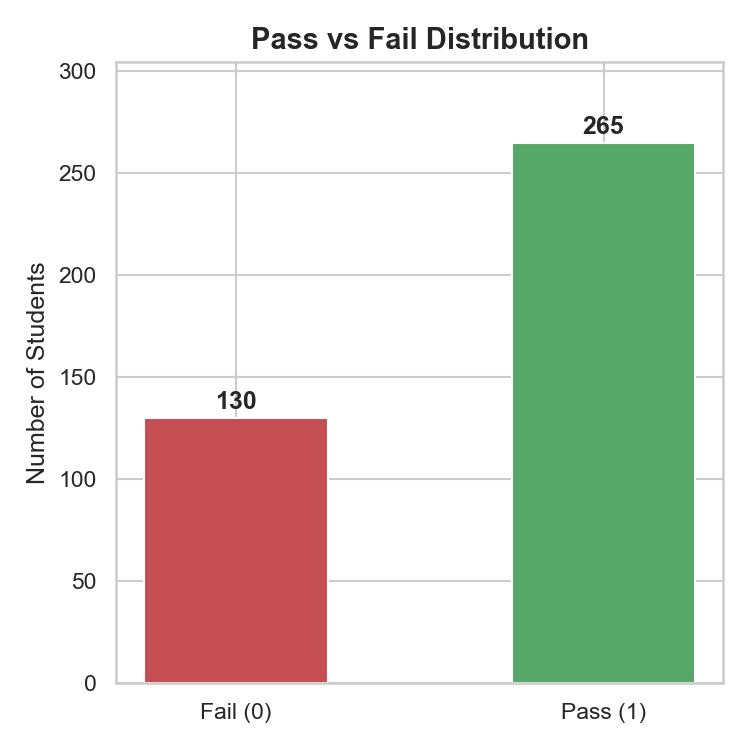
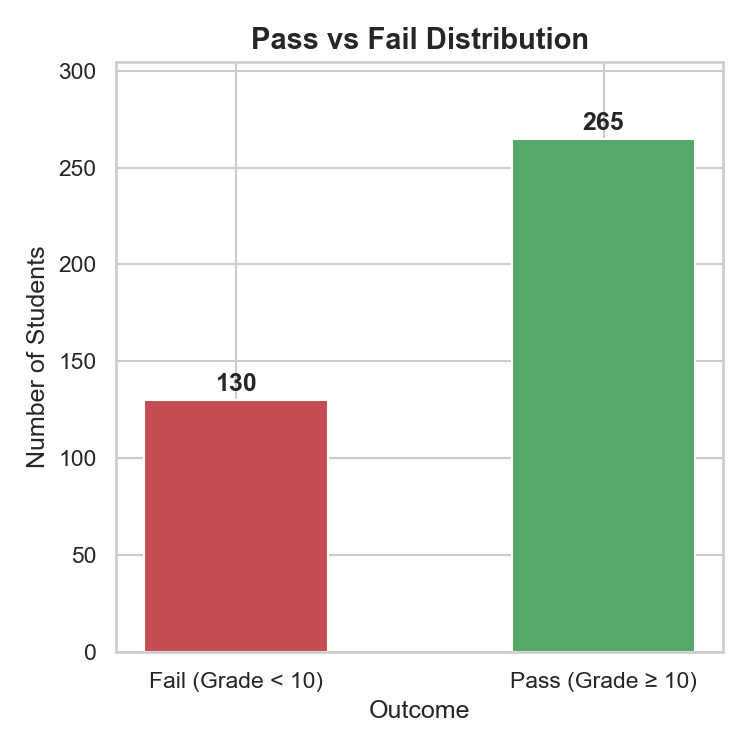
refactored plots.py for better readability of the plots

diff --git a/plots.py b/plots.py
@@ -3,7 +3,7 @@
 # Phase 2: Exploratory Data Analysis (EDA)
 # =============================================================================
 # Run this AFTER phase1_data_setup.py.
-# Make sure student_preprocessed.csv is in the same folder.
+# Make sure student-mat.csv and student_preprocessed.csv are in the same folder.
 # This script produces 6 plots saved as PNG files.
 # =============================================================================
 
@@ -13,23 +13,40 @@ import matplotlib.pyplot as plt
 import seaborn as sns
 
 # ── SETUP ─────────────────────────────────────────────────────────────────────
-# Load the preprocessed dataset from Phase 1
 df = pd.read_csv("student_preprocessed.csv")
 
-# Also reload the raw dataset for plots that use original column names
 df_raw = pd.read_csv("student-mat.csv", sep=";")
 df_raw["pass_fail"] = (df_raw["G3"] >= 10).astype(int)
 
-# Set a consistent visual style for all plots
 sns.set_theme(style="whitegrid", palette="muted")
 plt.rcParams["figure.dpi"] = 150
+
+# ── FULL LABEL MAP ─────────────────────────────────────────────────────────────
+# Single source of truth for all axis labels, titles, and legends.
+LABELS = {
+    "age":        "Age",
+    "Medu":       "Mother's Education",
+    "Fedu":       "Father's Education",
+    "traveltime": "Travel Time to School",
+    "studytime":  "Weekly Study Time",
+    "failures":   "Past Class Failures",
+    "famrel":     "Family Relationship Quality",
+    "freetime":   "Free Time After School",
+    "goout":      "Going Out with Friends",
+    "Dalc":       "Workday Alcohol Consumption",
+    "Walc":       "Weekend Alcohol Consumption",
+    "health":     "Current Health Status",
+    "absences":   "Number of Absences",
+    "G1":         "First Period Grade",
+    "G2":         "Second Period Grade",
+    "G3":         "Final Grade (G3)",
+}
 
 print("EDA started — generating 6 plots...")
 print()
 
 # ── PLOT 1: Distribution of Final Grades (G3) ─────────────────────────────────
-# This is the most important plot in your EDA section.
-# It shows whether grades are normally distributed, skewed, or bimodal.
+# Shows whether grades are normally distributed, skewed, or bimodal.
 # Note the spike at 0 — students who dropped out or were absent for the exam.
 
 fig, ax = plt.subplots(figsize=(8, 5))
@@ -42,7 +59,7 @@ ax.axvline(x=df_raw["G3"].mean(), color="#55A868", linestyle="--", linewidth=1.5
            label=f"Mean grade ({df_raw['G3'].mean():.1f})")
 
 ax.set_title("Distribution of Final Grades (G3)", fontsize=14, fontweight="bold")
-ax.set_xlabel("Final Grade (G3)", fontsize=12)
+ax.set_xlabel(LABELS["G3"], fontsize=12)
 ax.set_ylabel("Number of Students", fontsize=12)
 ax.legend()
 plt.tight_layout()
@@ -52,21 +69,20 @@ print("Plot 1 saved: plot1_grade_distribution.png")
 
 # ── PLOT 2: Pass vs Fail Count ────────────────────────────────────────────────
 # Simple bar chart showing class balance.
-# If one class is much larger than the other, it affects model evaluation.
-# Mention this in your thesis — class imbalance matters for precision/recall.
+# Class imbalance affects model evaluation — discuss in thesis.
 
 fig, ax = plt.subplots(figsize=(5, 5))
 
 counts = df_raw["pass_fail"].value_counts().sort_index()
-bars = ax.bar(["Fail (0)", "Pass (1)"], counts.values,
+bars = ax.bar(["Fail (Grade < 10)", "Pass (Grade ≥ 10)"], counts.values,
               color=["#C44E52", "#55A868"], edgecolor="white", width=0.5)
 
-# Add count labels on top of each bar
 for bar, count in zip(bars, counts.values):
     ax.text(bar.get_x() + bar.get_width() / 2, bar.get_height() + 2,
             str(count), ha="center", va="bottom", fontsize=12, fontweight="bold")
 
 ax.set_title("Pass vs Fail Distribution", fontsize=14, fontweight="bold")
+ax.set_xlabel("Outcome", fontsize=12)
 ax.set_ylabel("Number of Students", fontsize=12)
 ax.set_ylim(0, max(counts.values) * 1.15)
 plt.tight_layout()
@@ -77,20 +93,19 @@ print("Plot 2 saved: plot2_pass_fail.png")
 # ── PLOT 3: Study Time vs Final Grade ─────────────────────────────────────────
 # studytime is coded 1–4 (1=<2h, 2=2–5h, 3=5–10h, 4=>10h per week).
 # A boxplot shows both the median and spread per group.
-# This directly supports your hypothesis that study time affects grades.
 
-studytime_labels = {1: "<2h", 2: "2–5h", 3: "5–10h", 4: ">10h"}
+studytime_labels = {1: "Less than 2h", 2: "2 to 5h", 3: "5 to 10h", 4: "More than 10h"}
 df_raw["studytime_label"] = df_raw["studytime"].map(studytime_labels)
-order = ["<2h", "2–5h", "5–10h", ">10h"]
+order = ["Less than 2h", "2 to 5h", "5 to 10h", "More than 10h"]
 
-fig, ax = plt.subplots(figsize=(7, 5))
+fig, ax = plt.subplots(figsize=(8, 5))
 sns.boxplot(data=df_raw, x="studytime_label", y="G3",
             order=order, palette="Blues", ax=ax)
 ax.axhline(y=10, color="#C44E52", linestyle="--", linewidth=1.2,
-           label="Pass threshold")
-ax.set_title("Study Time vs Final Grade (G3)", fontsize=14, fontweight="bold")
-ax.set_xlabel("Weekly Study Time", fontsize=12)
-ax.set_ylabel("Final Grade (G3)", fontsize=12)
+           label="Pass threshold (10)")
+ax.set_title(f"{LABELS['studytime']} vs {LABELS['G3']}", fontsize=14, fontweight="bold")
+ax.set_xlabel(LABELS["studytime"], fontsize=12)
+ax.set_ylabel(LABELS["G3"], fontsize=12)
 ax.legend()
 plt.tight_layout()
 plt.savefig("plot3_studytime_grade.png")
@@ -99,17 +114,16 @@ print("Plot 3 saved: plot3_studytime_grade.png")
 
 # ── PLOT 4: Absences vs Final Grade ───────────────────────────────────────────
 # Scatterplot with a regression line to show the trend.
-# More absences typically correlates with lower grades.
-# The spread shows it is not a perfect predictor — interesting to discuss.
+# Near-zero correlation (r=0.03) — discuss non-linear effects in thesis.
 
 fig, ax = plt.subplots(figsize=(7, 5))
 sns.regplot(data=df_raw, x="absences", y="G3",
             scatter_kws={"alpha": 0.4, "s": 40, "color": "#4C72B0"},
             line_kws={"color": "#C44E52", "linewidth": 2},
             ax=ax)
-ax.set_title("Absences vs Final Grade (G3)", fontsize=14, fontweight="bold")
-ax.set_xlabel("Number of Absences", fontsize=12)
-ax.set_ylabel("Final Grade (G3)", fontsize=12)
+ax.set_title(f"{LABELS['absences']} vs {LABELS['G3']}", fontsize=14, fontweight="bold")
+ax.set_xlabel(LABELS["absences"], fontsize=12)
+ax.set_ylabel(LABELS["G3"], fontsize=12)
 plt.tight_layout()
 plt.savefig("plot4_absences_grade.png")
 plt.show()
@@ -117,46 +131,54 @@ print("Plot 4 saved: plot4_absences_grade.png")
 
 # ── PLOT 5: Correlation Heatmap ────────────────────────────────────────────────
 # Shows correlations between all numeric variables.
-# Key insight: G1 and G2 will be very highly correlated with G3.
-# This justifies your decision (from Phase 1) to exclude them from features.
-# Other notable correlations to discuss: studytime, failures, Medu (mother's education).
+# Key insight: G1 and G2 are very highly correlated with G3 — justifies exclusion.
 
 numeric_cols = ["G1", "G2", "G3", "age", "absences", "studytime",
                 "failures", "Medu", "Fedu", "famrel", "freetime",
                 "goout", "Dalc", "Walc", "health"]
 
-corr_matrix = df_raw[numeric_cols].corr()
+# Build a renamed copy for the heatmap so axis labels are readable
+df_heatmap = df_raw[numeric_cols].copy()
+df_heatmap.rename(columns=LABELS, inplace=True)
 
-fig, ax = plt.subplots(figsize=(10, 8))
-mask = np.triu(np.ones_like(corr_matrix, dtype=bool))  # hide upper triangle
+corr_matrix = df_heatmap.corr()
+
+fig, ax = plt.subplots(figsize=(12, 9))
+mask = np.triu(np.ones_like(corr_matrix, dtype=bool))
 sns.heatmap(corr_matrix, mask=mask, annot=True, fmt=".2f",
             cmap="coolwarm", center=0, linewidths=0.5,
-            annot_kws={"size": 8}, ax=ax)
+            annot_kws={"size": 7}, ax=ax)
 ax.set_title("Correlation Heatmap — Numeric Variables", fontsize=14, fontweight="bold")
+ax.set_xticklabels(ax.get_xticklabels(), rotation=35, ha="right", fontsize=8)
+ax.set_yticklabels(ax.get_yticklabels(), rotation=0, fontsize=8)
 plt.tight_layout()
 plt.savefig("plot5_correlation_heatmap.png")
 plt.show()
 print("Plot 5 saved: plot5_correlation_heatmap.png")
 
-# ── PLOT 6: Parent Education vs Final Grade ────────────────────────────────────
-# Medu = mother's education level (0=none, 1=primary, 2=5th–9th grade,
-#                                   3=secondary, 4=higher education)
-# Research consistently shows parental education influences student outcomes.
-# This is a good variable to highlight in your demographic analysis section.
+# ── PLOT 6: Mother's Education vs Final Grade ──────────────────────────────────
+# Medu: 0=none, 1=primary, 2=5th–9th grade, 3=secondary, 4=higher education.
+# Parental education is a well-documented predictor of student outcomes.
 
-fig, ax = plt.subplots(figsize=(7, 5))
-medu_labels = {0: "None", 1: "Primary", 2: "Middle", 3: "Secondary", 4: "Higher"}
+medu_labels = {
+    0: "None",
+    1: "Primary school",
+    2: "Middle school",
+    3: "Secondary school",
+    4: "Higher education"
+}
 df_raw["Medu_label"] = df_raw["Medu"].map(medu_labels)
-medu_order = ["None", "Primary", "Middle", "Secondary", "Higher"]
+medu_order = ["None", "Primary school", "Middle school", "Secondary school", "Higher education"]
 
+fig, ax = plt.subplots(figsize=(8, 5))
 sns.boxplot(data=df_raw, x="Medu_label", y="G3",
             order=medu_order, palette="Greens", ax=ax)
 ax.axhline(y=10, color="#C44E52", linestyle="--", linewidth=1.2,
-           label="Pass threshold")
-ax.set_title("Mother's Education Level vs Final Grade (G3)",
-             fontsize=14, fontweight="bold")
-ax.set_xlabel("Mother's Education Level", fontsize=12)
-ax.set_ylabel("Final Grade (G3)", fontsize=12)
+           label="Pass threshold (10)")
+ax.set_title(f"{LABELS['Medu']} vs {LABELS['G3']}", fontsize=14, fontweight="bold")
+ax.set_xlabel(LABELS["Medu"], fontsize=12)
+ax.set_ylabel(LABELS["G3"], fontsize=12)
+ax.set_xticklabels(ax.get_xticklabels(), rotation=15, ha="right")
 ax.legend()
 plt.tight_layout()
 plt.savefig("plot6_medu_grade.png")
@@ -164,17 +186,18 @@ plt.show()
 print("Plot 6 saved: plot6_medu_grade.png")
 
 # ── SUMMARY ───────────────────────────────────────────────────────────────────
+corr_matrix_raw = df_raw[numeric_cols].corr()
 print()
 print("=" * 60)
 print("PHASE 2 COMPLETE — EDA Summary")
 print("=" * 60)
-print(f"  Mean final grade (G3):   {df_raw['G3'].mean():.2f} / 20")
-print(f"  Std deviation:           {df_raw['G3'].std():.2f}")
-print(f"  Pass rate:               {df_raw['pass_fail'].mean() * 100:.1f}%")
-print(f"  Highest corr. with G3:   G2 ({corr_matrix['G3']['G2']:.2f}), "
-      f"G1 ({corr_matrix['G3']['G1']:.2f})")
-print(f"  Absences–G3 correlation: {corr_matrix['G3']['absences']:.2f}")
-print(f"  Studytime–G3 correlation:{corr_matrix['G3']['studytime']:.2f}")
+print(f"  Mean final grade (G3):        {df_raw['G3'].mean():.2f} / 20")
+print(f"  Std deviation:                {df_raw['G3'].std():.2f}")
+print(f"  Pass rate:                    {df_raw['pass_fail'].mean() * 100:.1f}%")
+print(f"  Highest corr. with G3:        Second Period Grade ({corr_matrix_raw['G3']['G2']:.2f}), "
+      f"First Period Grade ({corr_matrix_raw['G3']['G1']:.2f})")
+print(f"  Number of Absences — G3 corr: {corr_matrix_raw['G3']['absences']:.2f}")
+print(f"  Weekly Study Time  — G3 corr: {corr_matrix_raw['G3']['studytime']:.2f}")
 print()
 print("All 6 plots saved as PNG files in your project folder.")
 print("Ready for Phase 3: Statistical Analysis")
